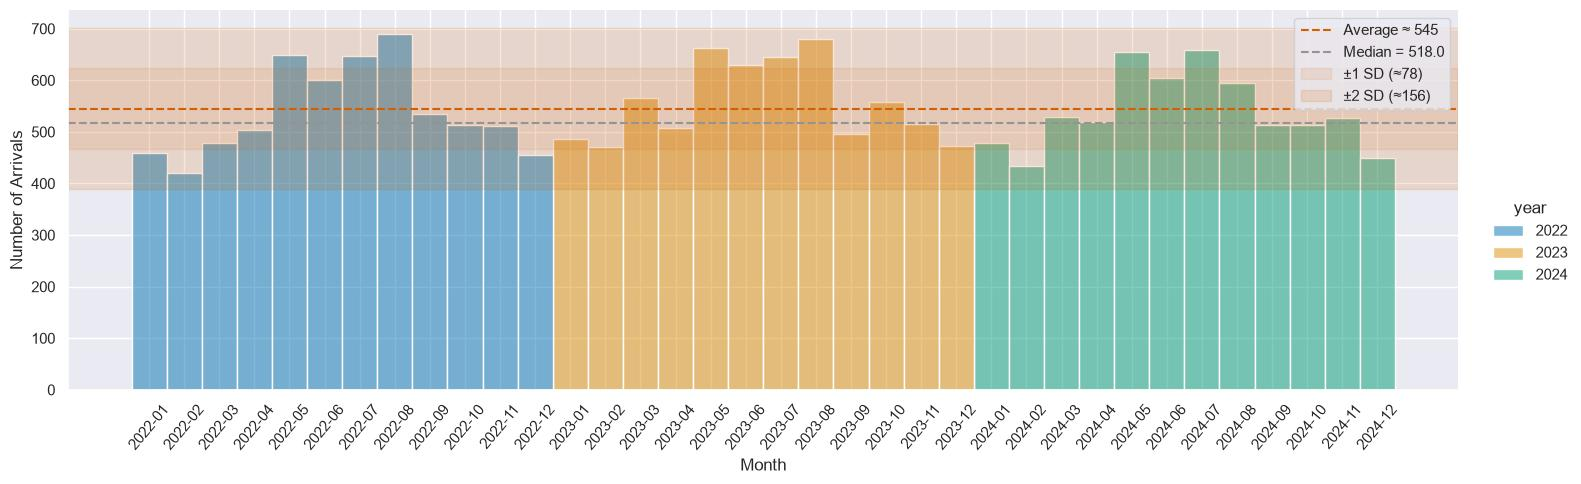
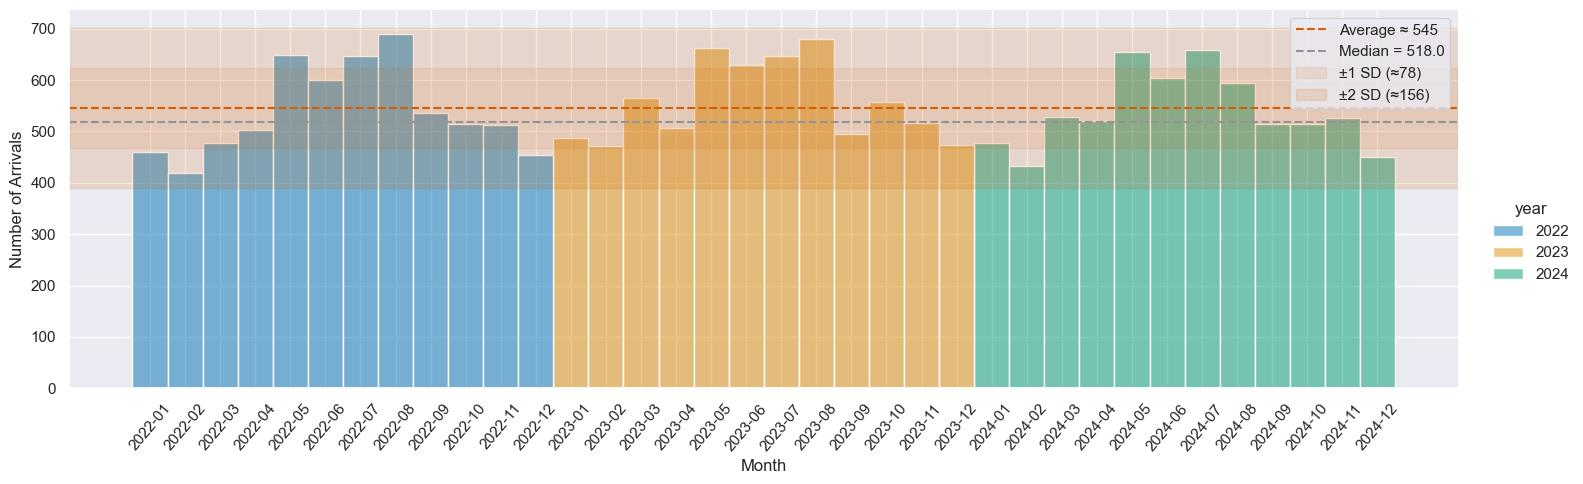
did simulaiton model, not completely done yet but we'll see

diff --git a/Section 3/Mathmodel.py b/Section 3/Mathmodel.py
@@ -1,0 +1,133 @@
+import pandas as pd
+import numpy as np
+import seaborn as sns
+import matplotlib.pyplot as plt
+import os
+from scipy import stats
+
+
+#Importing data and whatnot
+
+path = os.path.join(os.path.dirname(__file__), '..' , 'rotterdam_dataset_06.xlsx')
+rd = pd.read_excel(path)
+
+types = ['Container', 'Bulk', 'Tanker']
+
+def estimate_lambda(vessel_type, rd = rd):
+    arrival = rd[rd['Vessel_Type'] == vessel_type]['Arrival_Date'].sort_values()
+    arrival_time = ( arrival - arrival.iloc[0]).dt.total_seconds() / (3600 * 24) 
+    inter_arrival_times = np.diff(arrival_time)
+    return 1 / np.mean(inter_arrival_times)
+
+#print the estimate lambda for vessels cuz i need to check them
+#print(f'container lambda: {estimate_lambda('Container')}')
+#print(f'bulk lambda: {estimate_lambda('Bulk')}')
+#print(f'tanker lambda: {estimate_lambda('Tanker')}')
+
+def estimate_lognormal(vessel_type, rd = rd):
+    tons = rd[rd['Vessel_Type'] == vessel_type]['Cargo_tons'].to_numpy()
+    m1 = np.mean(tons)
+    m2 = np.mean(tons**2)
+
+    sigma2 = np.log(m2 / m1**2)
+    mu = np.log(m1) - sigma2 / 2
+    return mu, np.sqrt(sigma2)
+
+lam_C = estimate_lambda('Container')
+lam_B = estimate_lambda('Bulk')
+lam_T = estimate_lambda('Tanker')
+
+mu_C, sigma_C = estimate_lognormal('Container')
+mu_B, sigma_B = estimate_lognormal('Bulk')
+mu_T, sigma_T = estimate_lognormal('Tanker')
+
+def simPP(lam, t): 
+    expDist = stats.expon(scale = 1/lam)
+    time = expDist.rvs()
+    nT = 0
+    while time < t: 
+        nT += 1 
+        time += expDist.rvs()
+    return nT
+
+def simCargo(nT, mu, sigma):
+    cargoDist = stats.lognorm(s = sigma, scale = np.exp(mu))
+    cargo = cargoDist.rvs(nT)
+    return np.sum(cargo)
+
+def simPort(T):
+    N_C = simPP(lam_C, T)
+    N_B = simPP(lam_B, T)
+    N_T = simPP(lam_T, T)
+    N = N_C + N_B + N_T
+
+    S_C = simCargo(N_C, mu_C, sigma_C)
+    S_B = simCargo(N_B, mu_B, sigma_B)
+    S_T = simCargo(N_T, mu_T, sigma_T)
+    S = S_C + S_B + S_T
+
+    return [N_C, N_B, N_T, N, S_C, S_B, S_T, S]
+
+np.random.seed(7567)
+T = 365
+n = 1000
+
+results = np.array([simPort(T) for _ in range(n)])
+
+labels = ['N_C', 'N_B', 'N_T', 'N', 'S_C', 'S_B', 'S_T', 'S']
+means = np.mean(results, axis=0)
+stds = np.std(results, axis=0, ddof=1)
+q95 = np.quantile(results, 0.95, axis=0)
+
+table = pd.DataFrame({'Mean': means, 'Std': stds, '95% Quantile': q95}, index=labels)
+print(table)
+
+capacity = 650000
+nDays = 20000
+daily = np.array([simPort(1)[7] for _ in range(nDays)])
+
+exceed = daily > capacity
+p = np.mean(exceed)
+
+s2 = np.var(exceed)
+z = 1.96
+halfWidth = z * np.sqrt(s2 / nDays)
+interval  = (p - halfWidth, p + halfWidth)
+print(p, interval)
+print('excpected days over capacity / year: ', p * 365)
+
+# Compare simulation with observed data
+observed = rd.groupby(rd['Arrival_Date'].dt.date)['Cargo_tons'].sum().to_numpy()
+p_obs = np.mean(observed > capacity)
+
+plt.figure()
+bins = np.arange(0, 1300, 25)   #in thousand tons
+plt.hist(daily / 1000, bins = bins, density = True, alpha = 0.6, label = 'Simulated')
+plt.hist(observed / 1000, bins = bins, density = True, histtype = 'step', color = 'black', linewidth = 1.5, label = 'Observed (2022-2024)')
+plt.axvspan(capacity / 1000, bins[-1], color = 'red', alpha = 0.1, label = f'Over capacity: {p:.1%} sim, {p_obs:.1%} obs')
+plt.axvline(capacity / 1000, color = 'red', linestyle = '--', label = 'Capacity (650k tons)')
+plt.xlabel('Total cargo per day (thousand tons)')
+plt.ylabel('Density')
+plt.legend(loc = 'upper left')
+plt.savefig(os.path.join(os.path.dirname(__file__), 'daily_throughput_hist.png'), bbox_inches = 'tight')
+plt.show()
+
+#exceedance curve: for every x, fraction of days above x
+x = np.linspace(0, np.quantile(daily, 0.999), 500)
+exceed_sim = np.array([np.mean(daily > xi) for xi in x])
+exceed_obs = np.array([np.mean(observed > xi) for xi in x])
+q95 = np.quantile(daily, 0.95)
+q99 = np.quantile(daily, 0.99)
+
+plt.figure()
+plt.plot(x / 1000, exceed_sim, label = 'Simulated')
+plt.plot(x / 1000, exceed_obs, color = 'black', linestyle = ':', label = 'Observed (2022-2024)')
+plt.axvline(capacity / 1000, color = 'red', linestyle = '--', label = 'Capacity (650k tons)')
+plt.axvline(q95 / 1000, color = 'grey', linestyle = '--', label = f'95% quantile ({q95/1000:.0f}k)')
+plt.axvline(q99 / 1000, color = 'black', linestyle = '--', label = f'99% quantile ({q99/1000:.0f}k)')
+plt.yscale('log')   #log scale so the tail is visible
+plt.xlabel('Total cargo per day (thousand tons)')
+plt.ylabel('P(daily throughput > x)')
+plt.legend()
+plt.savefig(os.path.join(os.path.dirname(__file__), 'daily_exceedance.png'), bbox_inches = 'tight')
+plt.show()
